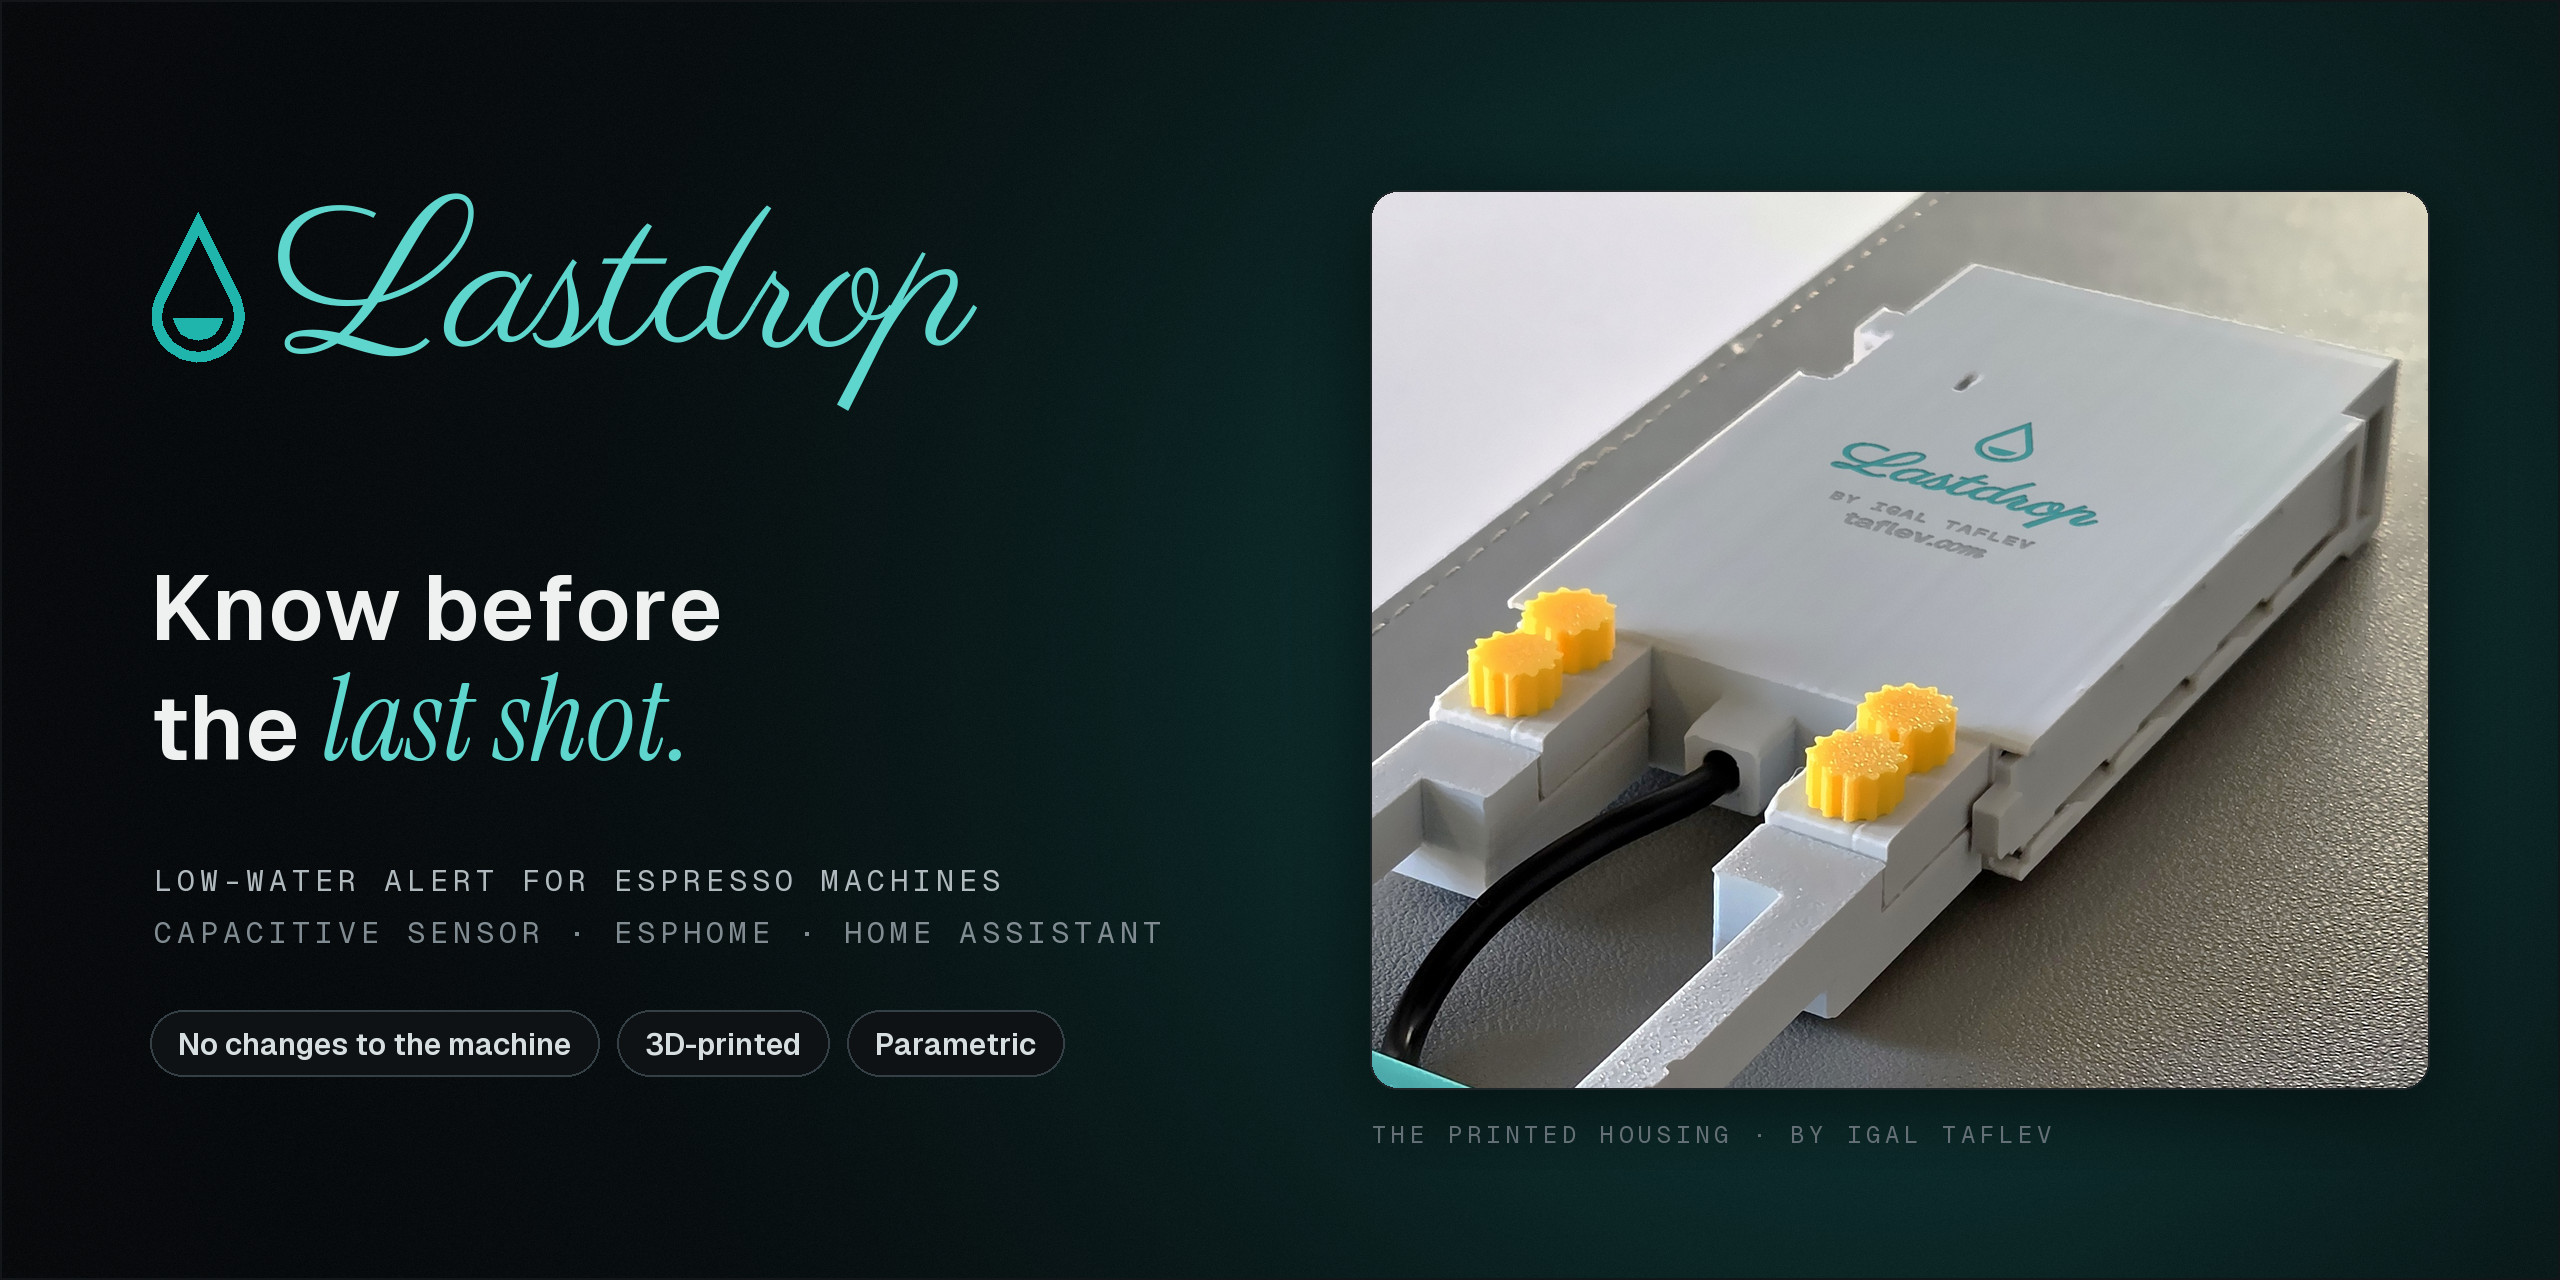
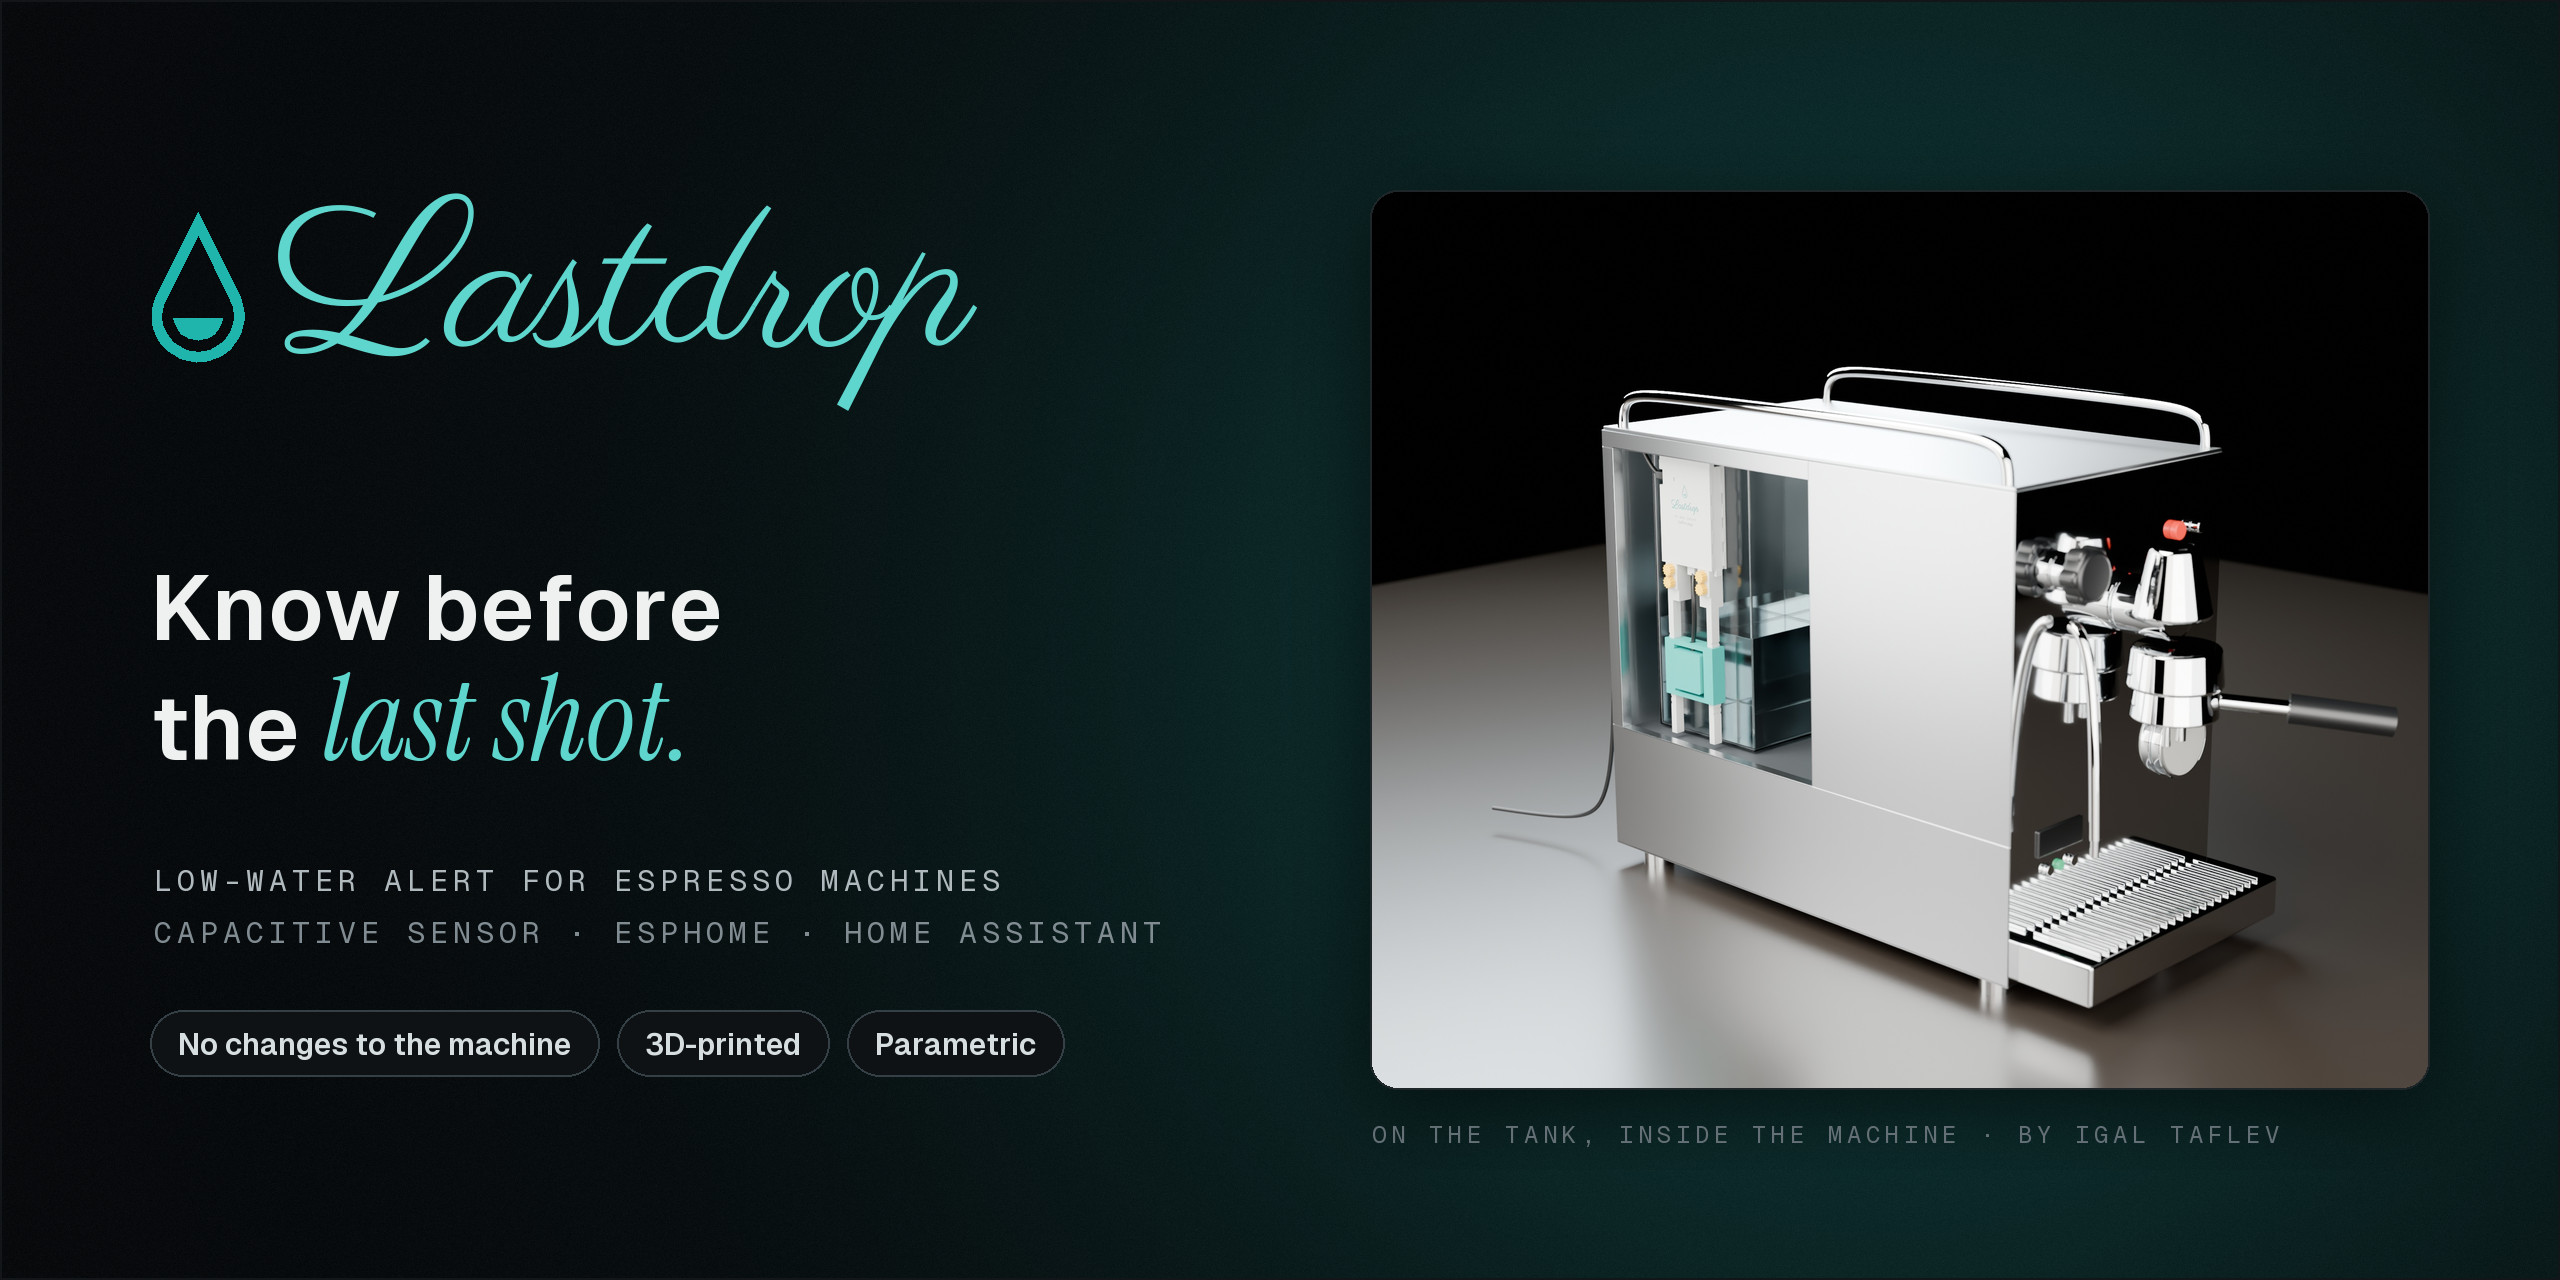
Add the exploded-view loop and a Blender hero in a modelled ECM Classika

Changed region(s): [[0.5312, 0.125, 0.9688, 0.9062]]

diff --git a/README.md b/README.md
@@ -11,6 +11,8 @@ and a small ESP32 in a 3D-printed housing tells Home Assistant. Nothing is opene
 Built for an **ECM Classika PID**. It works on any machine with a plastic or glass tank you can reach from the
 outside, and the housing is parametric, so it can be fitted to another tank.
 
+<p align="center"><img src="docs/clips/explode.webp" alt="Exploded view: the sensor, head, rails, thumb screws, slider, ATOM Lite, WAGO connectors, key, lid and door come together into the finished Lastdrop, then drift apart again." width="100%"></p>
+
 <img src="docs/images/flow.jpg" alt="Sense through the wall, read on the ESP32, decide in Home Assistant, warn by LED, voice and phone." width="100%">
 
 <img src="docs/images/panel-real.jpg" alt="The printed housing: engraved LED face with the turquoise logo, the sensor head from the tank side, and the inside of the box." width="100%">
